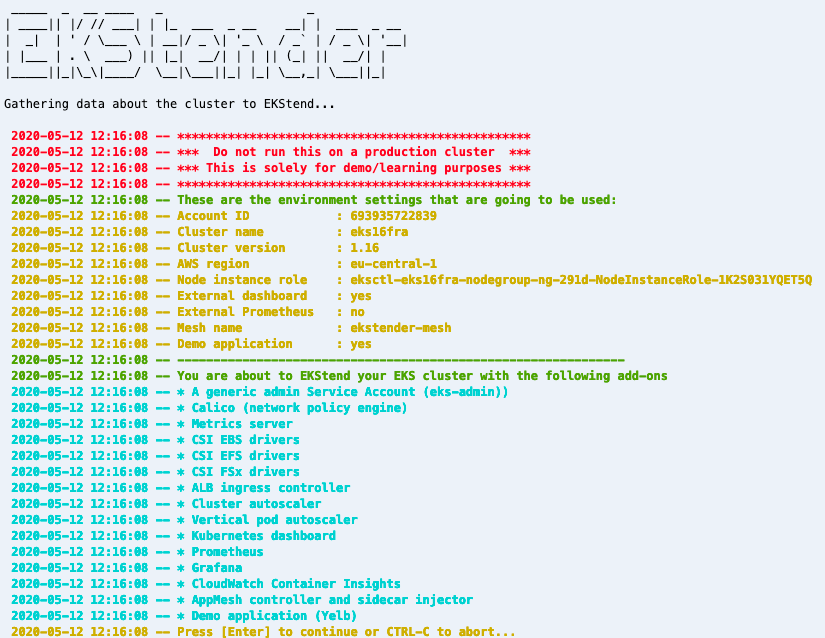
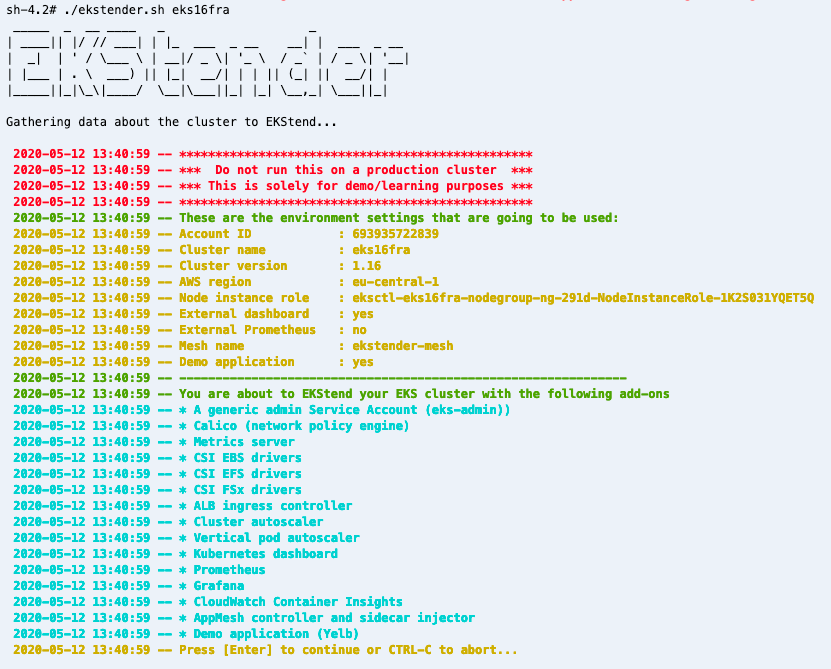
Minor fixes to README and setup image

Changed region(s): [[0.0, 0.0, 1.0, 1.0]]

diff --git a/README.md b/README.md
@@ -22,19 +22,19 @@ While you can make it work with a regular upstream K8s setup, `EKStender` was on
 
 This is a list of modules, features and configurations that `EKStender` enables on a vanilla EKS cluster (deployed with eksctl):
 
-- Calico (network policy engine)"
-- Metrics server"
-- CSI EBS drivers"
-- CSI EFS drivers"
-- CSI FSx drivers"
-- ALB ingress controller"
-- Cluster autoscaler"
-- Vertical pod autoscaler"
-- Kubernetes dashboard"
-- Prometheus"
-- Grafana"
-- CloudWatch Container Insights"
-- AppMesh controller and sidecar injector"
+- Calico (network policy engine)
+- Metrics server
+- CSI EBS drivers
+- CSI EFS drivers
+- CSI FSx drivers
+- ALB ingress controller
+- Cluster autoscaler
+- Vertical pod autoscaler
+- Kubernetes dashboard
+- Prometheus
+- Grafana
+- CloudWatch Container Insights
+- AppMesh controller and sidecar injector
 - Demo application ([Yelb](https://github.com/mreferre/yelb))
 
 In addition to the above, a multi-purpose `eks-admin` Service Account is created: it can be used to login into the Dashboard via grabbing its token. 
